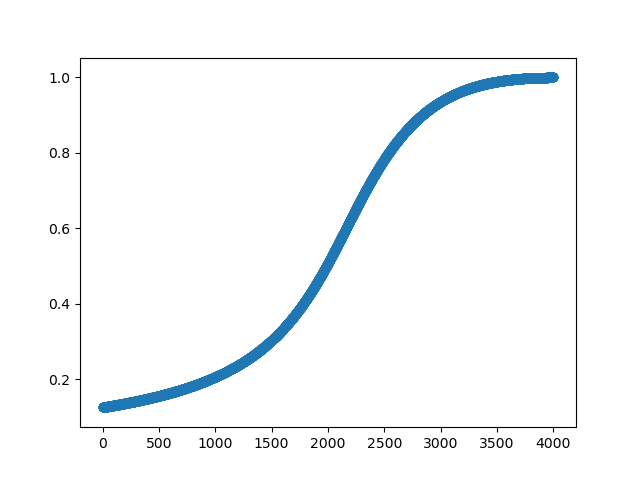
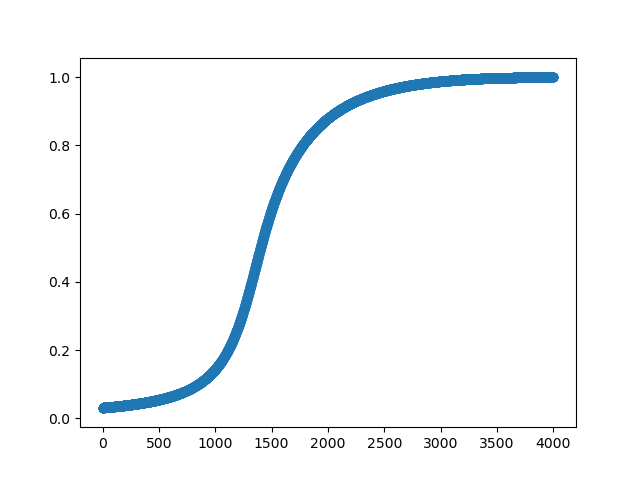
Broader results

diff --git a/main.py b/main.py
@@ -98,10 +98,11 @@ def F_p_test(conc_array):
     return inner_function(settings.n,results_array,gamma_array,beta_array)
 
 def F_p_evolution():
+    settings.n = 5
     p = 1
     p_array = []
     results = []
-    for i in range(8):
+    for i in range(20):
 
         x0 = [np.pi/3]*p
         x1 = [np.pi/4]*p
@@ -163,6 +164,7 @@ def H_optimize(n):
 
 
 def H_evolution(n):
+    # settings.n = 5
     results_array = objective_function.gen_results_arr()
 
 
@@ -191,9 +193,9 @@ def H_evolution(n):
 def results_to_file():
     f = open("results.txt", "w")
 
-    settings.n = 3
+    settings.n = 4
 
-    for i in range(3):
+    for i in range(15):
         arr = [None] * settings.n
         binary_string.binary_strings(settings.n, arr, 0)
         binary_string.fix_strings()
@@ -225,7 +227,7 @@ def results_to_file():
 
 if __name__ == "__main__":
 
-    settings.n = 3
+    settings.n = 5
     # p = 3
 
     arr = [None] * settings.n
@@ -233,7 +235,8 @@ if __name__ == "__main__":
     binary_string.binary_strings(settings.n, arr, 0)
     binary_string.fix_strings()
     #
-    # results = objective_function.gen_results_strings()
+    results = objective_function.gen_results_strings()
+    # print(results)
     # test = H_optimize(settings.n)
     # print()
     # print("H optimize index: {} String: {} Result: {}".format(test[1],settings.strings[test[1]], test[0]))
@@ -252,12 +255,17 @@ if __name__ == "__main__":
     # print(F_p(sol.x[:p], sol.x[p:]))
 
 
-    # results_to_file()
 
+    # 
     # x = H_evolution(settings.n)
     # plt.scatter(x[0], x[1])
+    # plt.xlabel("H")
+    # plt.ylabel("Optimal Value")
     # plt.show()
 
     y = F_p_evolution()
-    plt.scatter(y[0],y[1])
+    plt.scatter(y[0],[-i for i in y[1]])
     plt.show()
+
+    #
+    # results_to_file()

diff --git a/objective_function.py b/objective_function.py
@@ -48,7 +48,20 @@ def subclause_3(strings):
             results.append(0)
 
     return results
-    
+
+
+def subclause_4(strings):
+    results = []
+
+    for i in range(len(strings)):
+        sum  = 0
+        for j in range(len(strings[i])):
+            sum += qubit(strings[i][j])*qubit(strings[i][(len(strings[i]) - j)//2 + j])
+
+        results.append(sum)
+
+    return results
+
 
 def gen_results_arr():
     # global strings
@@ -57,6 +70,7 @@ def gen_results_arr():
     results.append(subclause_1(x))
     results.append(subclause_2(x))
     results.append(subclause_3(x))
+    results.append(subclause_4(x))
 
     return results
 
